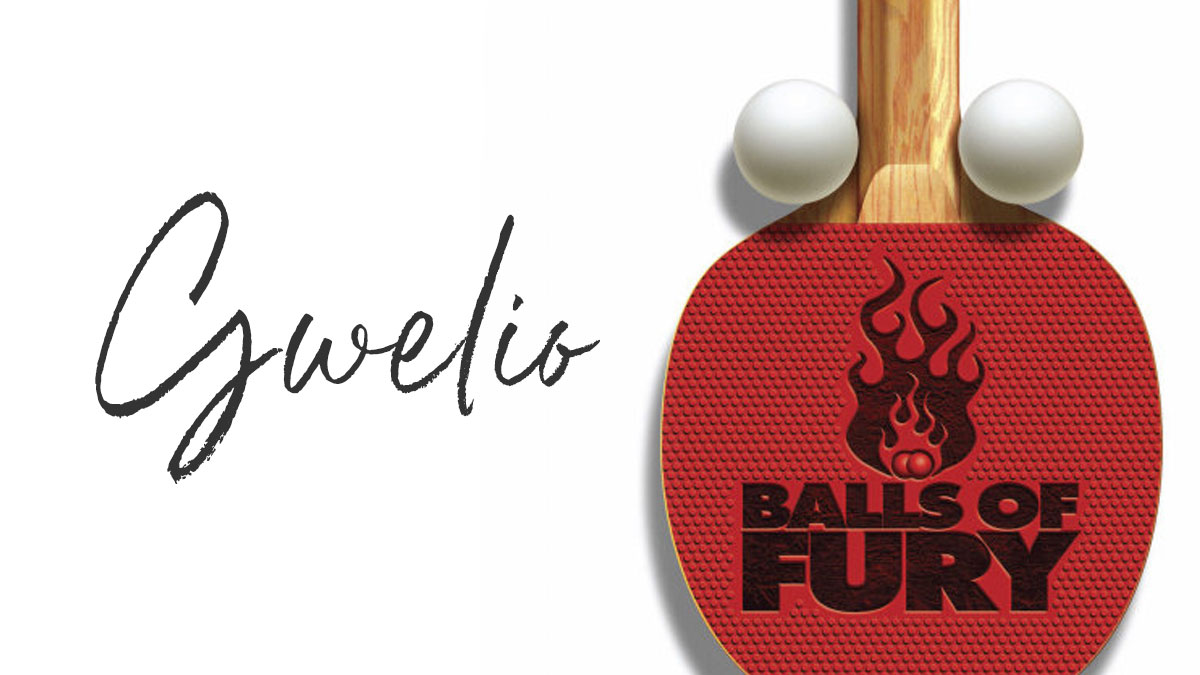
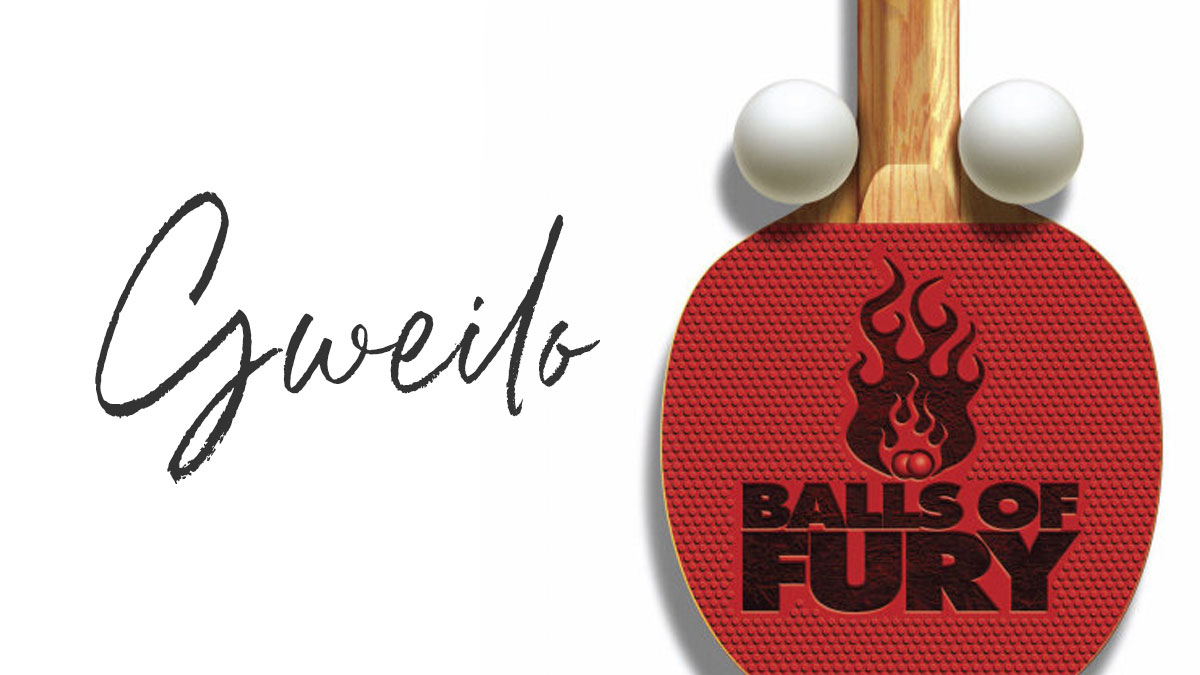
Updated naming

Changed region(s): [[0.37, 0.3111, 0.4625, 0.6222], [0.4625, 0.3111, 0.4933, 0.3422]]

diff --git a/index.html b/index.html
@@ -6,7 +6,7 @@
 		<meta name="viewport" content="width=device-width, initial-scale=1.0" />
 
 		<!-- Primary Meta Tags -->
-		<title>Gwelio ~ Less talkie-talkie, more ping-pong.</title>
+		<title>Gweilo ~ Less talkie-talkie, more ping-pong.</title>
 		<meta
 			name="description"
 			content="Ping Pong... is not the macarena. It takes patience. She is like a fine, well-aged prostitute... it takes years to learn her tricks."
@@ -14,10 +14,10 @@
 
 		<!-- Open Graph / Facebook -->
 		<meta property="og:type" content="website" />
-		<meta property="og:url" content="https://gwelio.gg/" />
+		<meta property="og:url" content="https://Gweilo.gg/" />
 		<meta
 			property="og:title"
-			content="Gwelio ~ Less talkie-talkie, more ping-pong."
+			content="Gweilo ~ Less talkie-talkie, more ping-pong."
 		/>
 		<meta
 			property="og:description"
@@ -27,10 +27,10 @@
 
 		<!-- Twitter -->
 		<meta property="twitter:card" content="summary_large_image" />
-		<meta property="twitter:url" content="https://gwelio.gg/" />
+		<meta property="twitter:url" content="https://Gweilo.gg/" />
 		<meta
 			property="twitter:title"
-			content="Gwelio ~ Less talkie-talkie, more ping-pong."
+			content="Gweilo ~ Less talkie-talkie, more ping-pong."
 		/>
 		<meta
 			property="twitter:description"

diff --git a/src/components/Layout/AuthLayout.tsx b/src/components/Layout/AuthLayout.tsx
@@ -39,11 +39,11 @@ export function AuthLayout() {
 				<div className="text-center">
 					<img
 						src="/logo.png"
-						alt="Gwelio Logo"
+						alt="Gweilo Logo"
 						className="mx-auto h-12 w-12"
 					/>
 					<h2 className="mt-2 text-3xl font-bold text-gray-900 dark:text-white">
-						Gwelio
+						Gweilo
 					</h2>
 					<p className="mt-2 text-sm text-gray-600 dark:text-gray-400">
 						{quote}

diff --git a/src/components/Layout/Header.tsx b/src/components/Layout/Header.tsx
@@ -17,11 +17,11 @@ export function Header() {
 						<Link to="/" className="flex items-center">
 							<img
 								src="/logo.png"
-								alt="Gwelio Logo"
+								alt="Gweilo Logo"
 								className="h-8 w-8"
 							/>
 							<span className="ml-2 text-lg font-semibold text-gray-900 dark:text-white">
-								Gwelio
+								Gweilo
 							</span>
 						</Link>
 					</div>

diff --git a/README.md b/README.md
@@ -1,3 +1,3 @@
-# gwelio
+# Gweilo
 
-[Edit in StackBlitz next generation editor ⚡](https://stackblitz.com/~/github.com/ivantomicic/gwelio)
+[Edit in StackBlitz next generation editor ⚡](https://stackblitz.com/~/github.com/ivantomicic/Gweilo)
